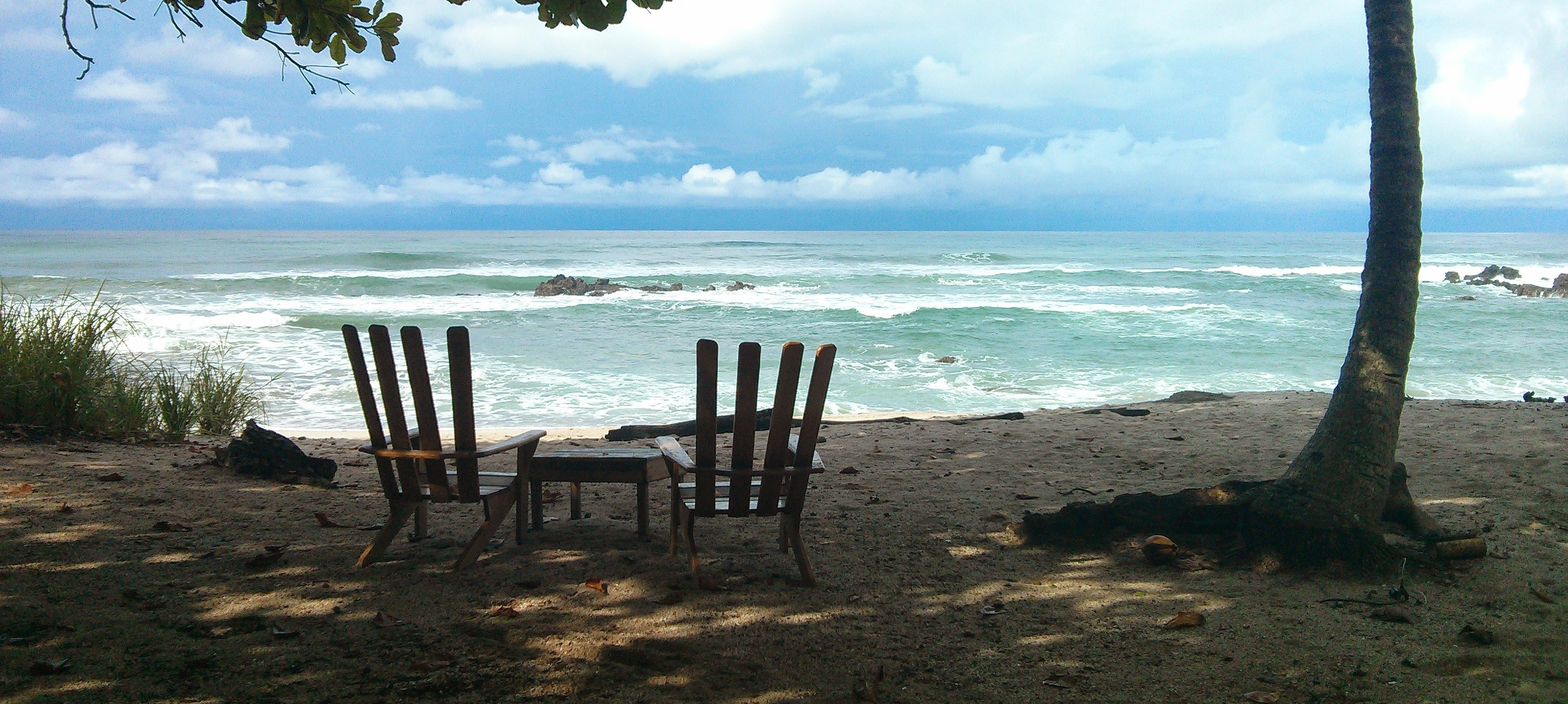
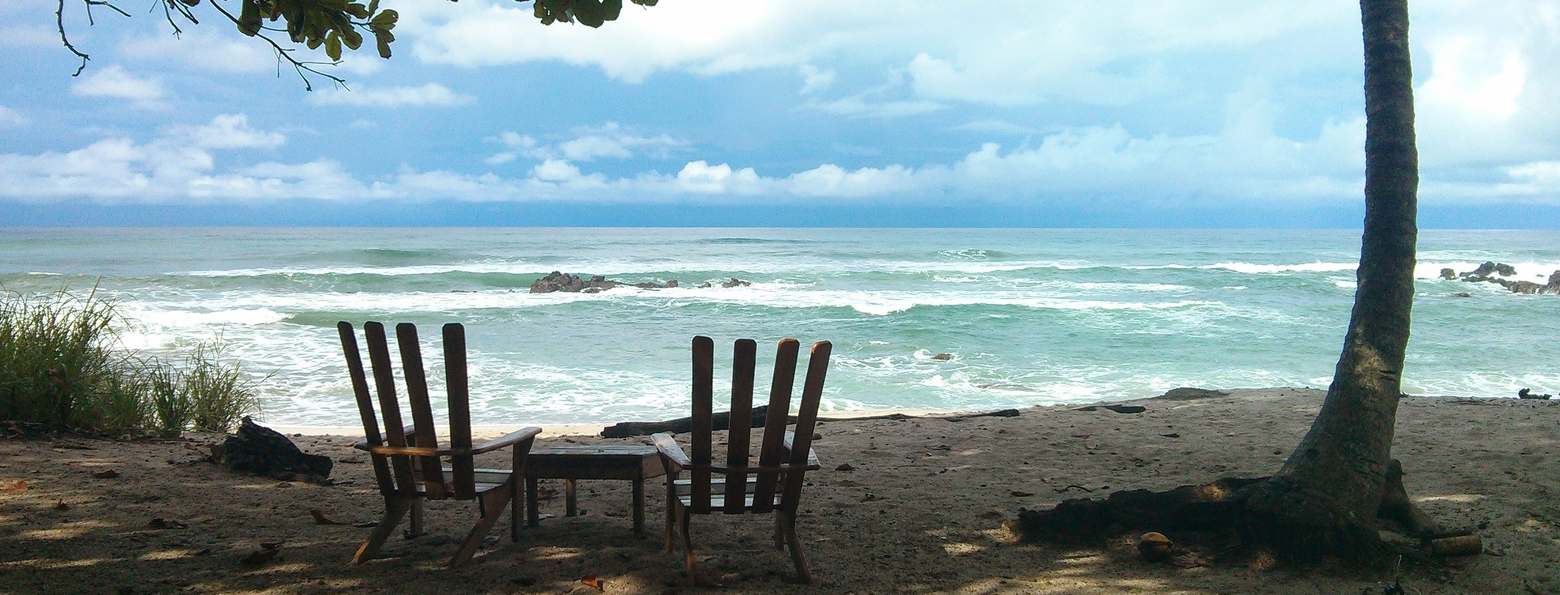
add and edit santa teresa pic

diff --git a/css/main.css b/css/main.css
@@ -161,3 +161,10 @@ h1, h2, h3, h4, h5 {
     background-position: bottom right;
 }
 
+#bg-st {
+    background: url("/img/santa-teresa-huge.jpg");
+    background-size: cover;
+    background-position: bottom right;
+}
+}
+
